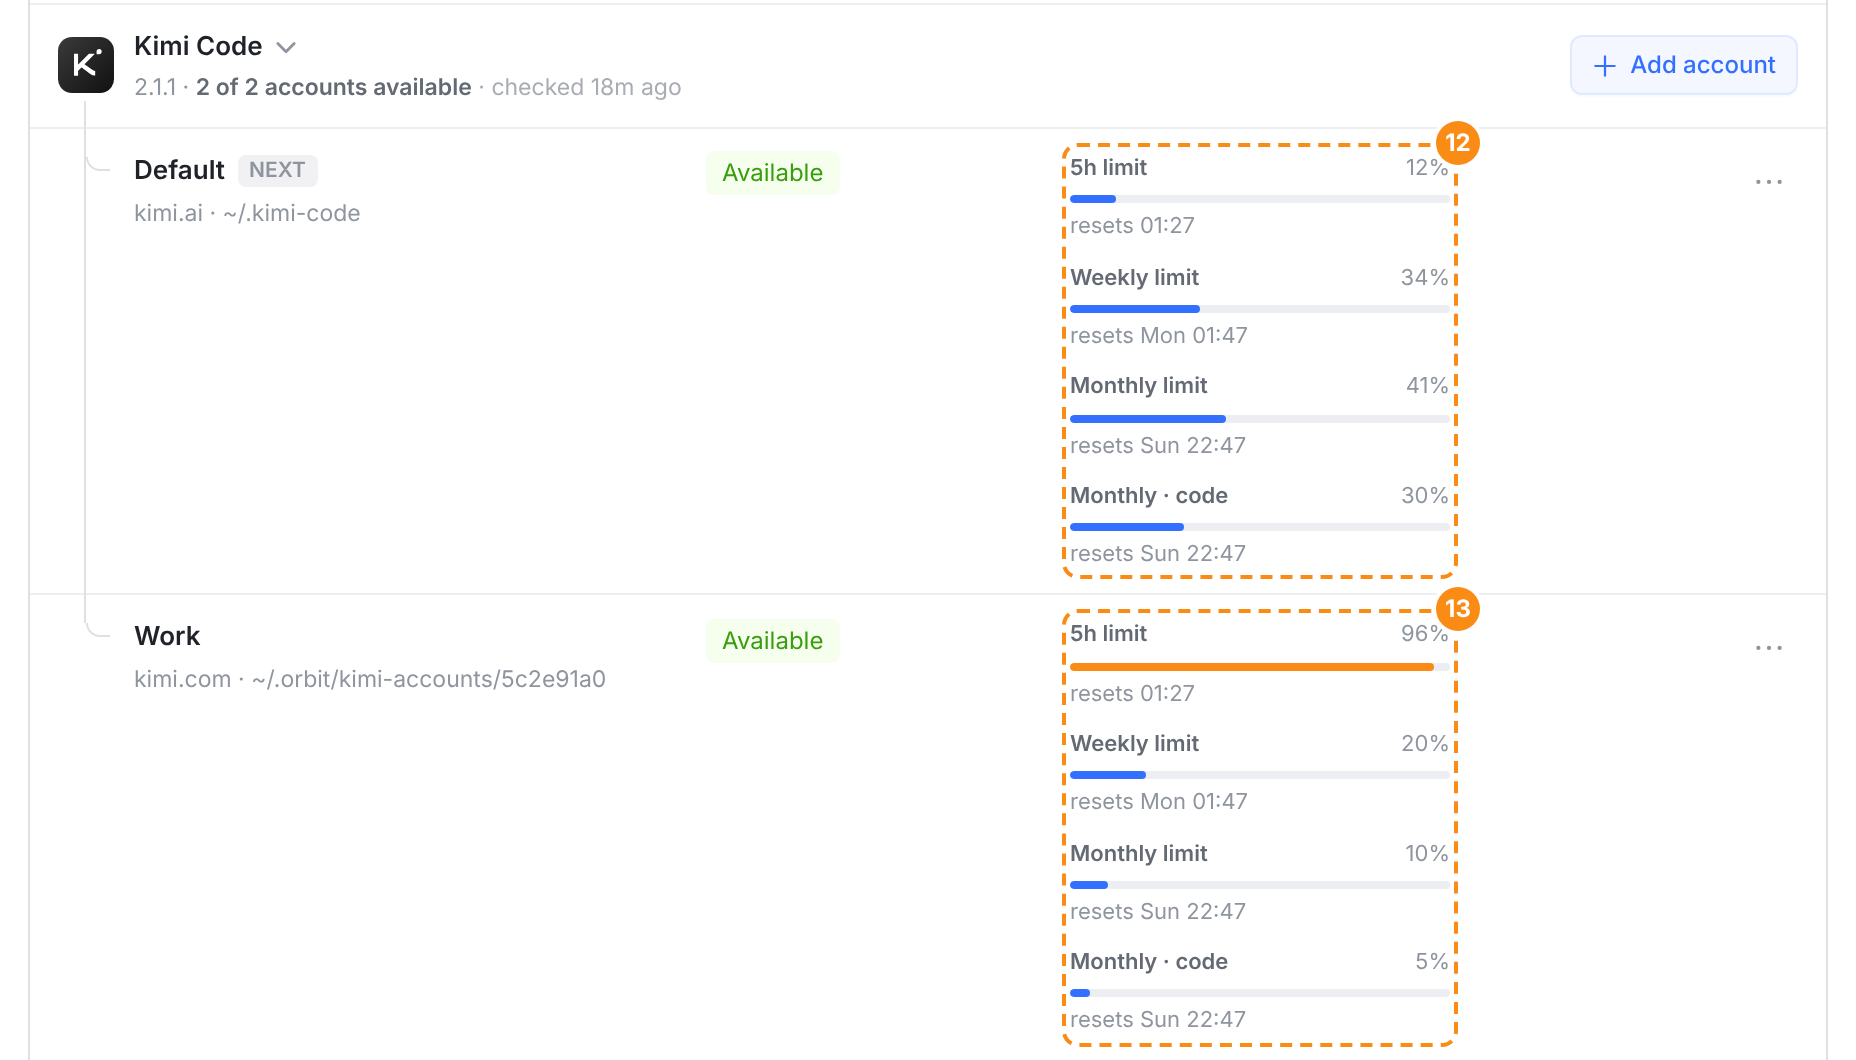
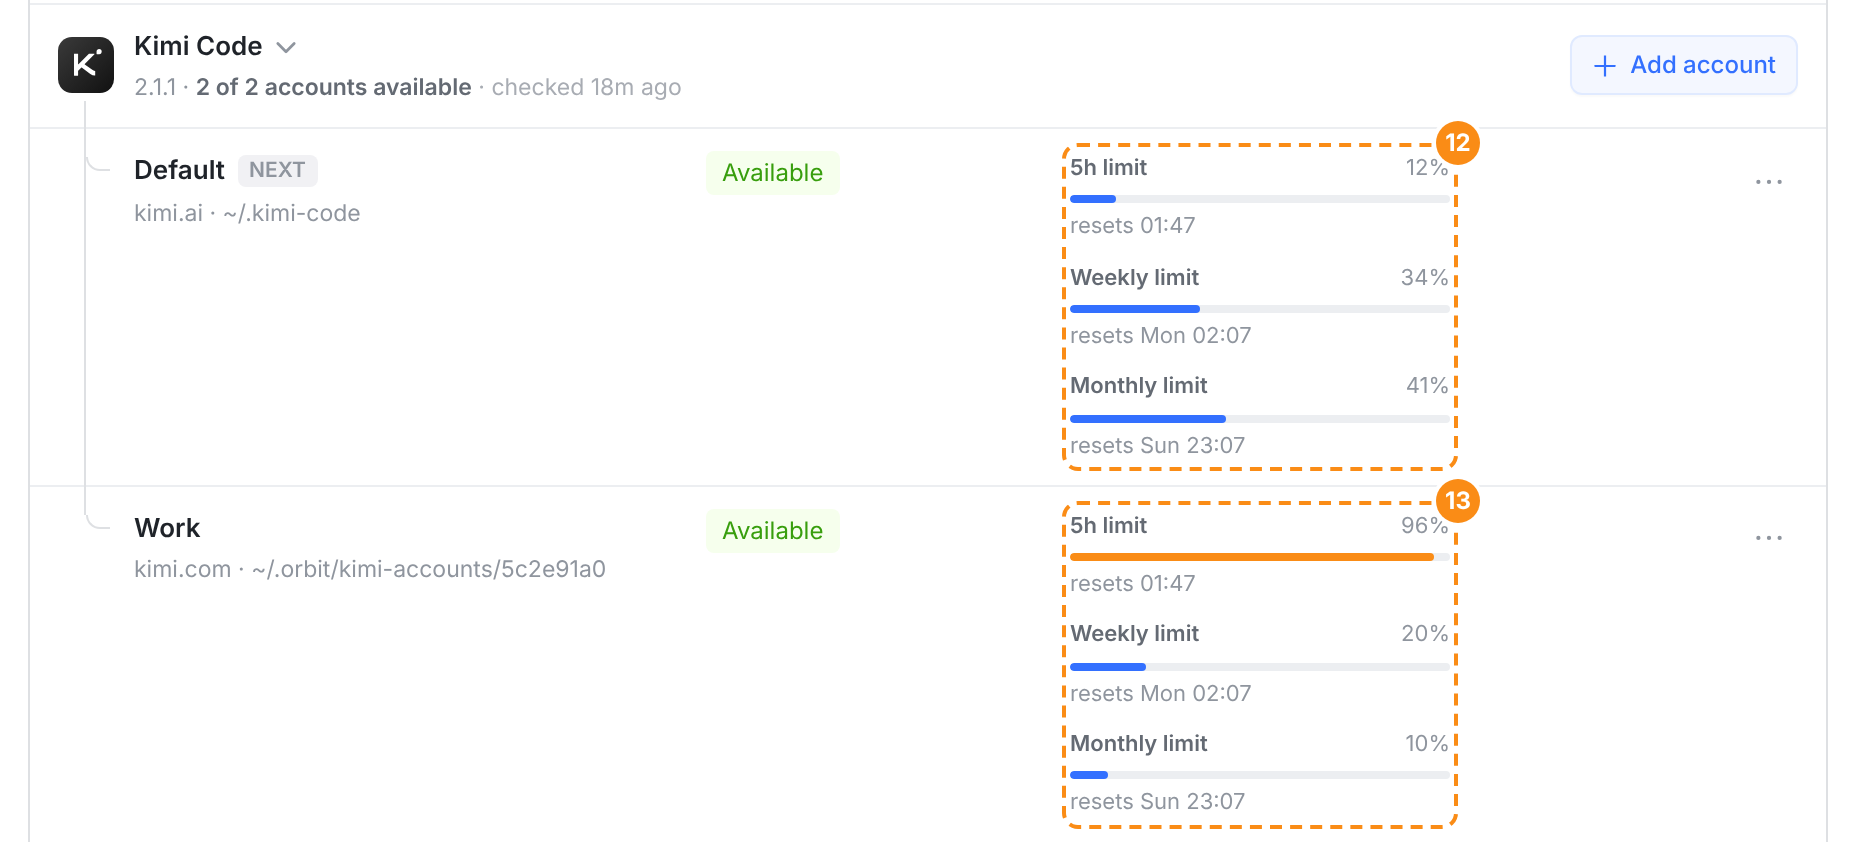
fix(web): Kimi's month is one bar, its total
The owner settled it on 2026-10-08 with the native design, for every client: Kimi Code's quota is three
windows, 5h limit, Weekly limit and Monthly limit, the month drawn once by its total
(usages.limit_month_total). Its coding share (monthCode, usages.limit_month_code) is no longer drawn,
on any surface that reads planUsageRows: account rows, the one-account row, the folded head, the
composer's gauge and the account pickers. Nor is it ever the window those name as the one nearest its
limit. @orbit/shared is unchanged: the share is still read, and the quota decisions there still weigh
it.

Tests: the Kimi cases assert the three windows and that "Monthly · code" appears nowhere, with a
coding share set above its month (which Kimi never reports) so that a surface still weighing it would
show it. Evidence: 01i and 01j captured again, and compare.png with them.

diff --git a/src/web/src/components/RunnerEngines.kimiAccounts.test.tsx b/src/web/src/components/RunnerEngines.kimiAccounts.test.tsx
@@ -22,8 +22,8 @@ import type { Runner } from './TasksSidePanel';
  * the Kimi row where the runner keeps Kimi accounts apart (kimi-account-login/v1), a panel that asks
  * for the site before it signs anything in, a device code that names the site of the account being
  * added, each account's row saying its site before its directory, Re-sign in marking the account's own
- * site Current, and each account's own quota — its 5-hour, weekly and monthly windows — in the same
- * quota column Claude Code's and Codex's accounts use.
+ * site Current, and each account's own quota — its 5-hour and weekly windows and one bar for its
+ * month, the total — in the same quota column Claude Code's and Codex's accounts use.
  *
  * Mounted into a real DOM and pressed through to the mocked `api()`: what a press sends — which name,
  * which account, which site — is what matters, and a static render cannot press anything.
@@ -72,7 +72,8 @@ const runner = (engine: RunnerEngineHealth = kimi(), over: Partial<Runner> = {})
 
 /** Ahead of whenever this runs, so no reading is about a window already over. */
 const inHours = (hours: number) => new Date(Date.now() + hours * 3600_000).toISOString();
-/** One Kimi account's four windows, as used shares (`used_ratio × 100`), from the managed /usages. */
+/** One Kimi account's four windows, as used shares (`used_ratio × 100`), from the managed /usages: the
+ *  page draws three of them, the month by its total, and never the coding share (`monthCode`). */
 const usages = (fiveHour: number, sevenDay: number, month: number, monthCode: number): PlanUsageSnapshot => ({
   provider: 'kimi',
   fetchedAt: inHours(-0.05),
@@ -346,13 +347,15 @@ describe('two Kimi accounts on one runner', () => {
 });
 
 describe('each Kimi account’s own quota', () => {
-  it('shows its 5-hour, weekly and monthly windows in the quota column', () => {
+  it('shows its 5-hour, weekly and monthly windows in the quota column, one bar for the month', () => {
     const page = mount(withQuota(usages(12, 34, 41, 30), usages(97, 20, 10, 5)));
     expect(kimiRow(page).querySelector('.re-meta')?.textContent).toBe('2.1.1 · 2 of 2 accounts available');
     const [defaultRow, workRow] = accountRows(page);
-    expect(windows(defaultRow)).toEqual(['5h limit12%', 'Weekly limit34%', 'Monthly limit41%', 'Monthly · code30%']);
-    expect(windows(workRow)).toEqual(['5h limit97%', 'Weekly limit20%', 'Monthly limit10%', 'Monthly · code5%']);
-    expect(all(defaultRow, '.re-reset')).toHaveLength(4);
+    expect(windows(defaultRow)).toEqual(['5h limit12%', 'Weekly limit34%', 'Monthly limit41%']);
+    expect(windows(workRow)).toEqual(['5h limit97%', 'Weekly limit20%', 'Monthly limit10%']);
+    expect(all(defaultRow, '.re-reset')).toHaveLength(3);
+    // The month is its total: the coding share reported beside it is not drawn.
+    expect(page.textContent).not.toContain('Monthly · code');
     // Work's 5-hour window is nearly spent: its bar says so, and a new session starts on Default.
     expect(all(workRow, '.runner-util.full')).toHaveLength(1);
     expect(all(defaultRow, '.runner-util.full')).toHaveLength(0);
@@ -360,12 +363,15 @@ describe('each Kimi account’s own quota', () => {
     expect([defaultRow, workRow].map(tags)).toEqual([['Available'], ['Available']]);
   });
 
-  it('folded, the head shows the next account’s window nearest its limit', () => {
-    const page = mount(withQuota(usages(12, 34, 41, 30), usages(97, 20, 10, 5)), { folded: true });
+  it('folded, the head shows the next account’s window nearest its limit, of the three it draws', () => {
+    // Default's coding share is set above its month — which Kimi never reports, the share being part of
+    // the month — so that a head still weighing it would name it.
+    const page = mount(withQuota(usages(12, 34, 41, 88), usages(97, 20, 10, 5)), { folded: true });
     const head = kimiRow(page);
     expect(tags(head)).toEqual(['Available']);
     expect(head.querySelector('.re-quota-next')?.textContent).toBe('Next: Default');
     expect(windows(head)).toEqual(['Monthly limit41%']);
+    expect(head.textContent).not.toContain('Monthly · code');
   });
 
   it('counts a spent account out of the head, and says when it comes back', () => {
@@ -374,10 +380,11 @@ describe('each Kimi account’s own quota', () => {
     expect(tags(accountRow(page, 'Work'))[0]).toMatch(/^Spent · resets /);
   });
 
-  it('shows the windows on the one-account row too', () => {
+  it('shows the same three on the one-account row', () => {
     const page = mount({ ...runner(kimi({ accounts: [DEFAULT] })), planUsage: { kimi: usages(12, 34, 41, 30) } });
     const row = kimiRow(page);
     expect(tags(row)).toEqual(['Available']);
-    expect(windows(row)).toEqual(['5h limit12%', 'Weekly limit34%', 'Monthly limit41%', 'Monthly · code30%']);
+    expect(windows(row)).toEqual(['5h limit12%', 'Weekly limit34%', 'Monthly limit41%']);
+    expect(row.textContent).not.toContain('Monthly · code');
   });
 });

diff --git a/src/web/src/lib/planUsage.test.ts b/src/web/src/lib/planUsage.test.ts
@@ -57,7 +57,7 @@ describe('planUsageRows', () => {
     });
   });
 
-  it("names Kimi Code's windows as its own /usage panel does, its monthly ones included", () => {
+  it("names Kimi Code's windows as its own /usage panel does: one monthly bar, the total", () => {
     const rows = planUsageRows({
       provider: 'kimi',
       fiveHour: { utilization: 12 },
@@ -69,12 +69,28 @@ describe('planUsageRows', () => {
       { key: 'fiveHour', label: '5h limit', percent: 12, nearLimit: false },
       { key: 'sevenDay', label: 'Weekly limit', percent: 34, nearLimit: false },
       { key: 'month', label: 'Monthly limit', percent: 91, nearLimit: true },
-      { key: 'monthCode', label: 'Monthly · code', percent: 30, nearLimit: false },
     ]);
     // What stops the login is its month, though its 5-hour window has room.
     expect(bindingPlanUsageRow(rows)?.key).toBe('month');
     // A window the runner did not read is not drawn.
     expect(planUsageRows({ provider: 'kimi', sevenDay: { utilization: 7 } }).map((row) => row.label)).toEqual(['Weekly limit']);
+  });
+
+  it("never draws Kimi's coding share of the month, nor names it as what stops the login", () => {
+    // A share above its month cannot come from Kimi — it is part of the month — and stands here so
+    // that a reader still weighing it would name it.
+    const rows = currentPlanUsageRows({
+      provider: 'kimi',
+      fiveHour: { utilization: 12 },
+      sevenDay: { utilization: 34 },
+      month: { utilization: 41 },
+      monthCode: { utilization: 97 },
+    });
+    expect(rows.map((row) => row.label)).toEqual(['5h limit', 'Weekly limit', 'Monthly limit']);
+    expect(rows.map((row) => row.label)).not.toContain('Monthly · code');
+    expect(bindingPlanUsageRow(rows)).toMatchObject({ key: 'month', percent: 41 });
+    // A coding share alone is nothing to draw.
+    expect(planUsageRows({ provider: 'kimi', monthCode: { utilization: 30 } })).toEqual([]);
   });
 
   it('selects Kimi quota without leaking a flat Kimi snapshot into Claude', () => {

diff --git a/src/web/src/lib/sessionProviderChoices.test.ts b/src/web/src/lib/sessionProviderChoices.test.ts
@@ -451,14 +451,16 @@ describe('the runner’s Kimi Code accounts, under the Kimi choice', () => {
       accounts: accounts.map((account) => ({ ...account, home: home(account.id) })),
     },
   ];
-  // Kimi's windows in the heartbeat's planUsage.kimi: Default's own, Work's under `accounts`.
+  // Kimi's windows in the heartbeat's planUsage.kimi: Default's own, Work's under `accounts`. Default's
+  // coding share is above its month, which Kimi never reports (the share is part of the month), so that a
+  // row still weighing it would name it.
   const usage = {
     kimi: {
       provider: 'kimi',
       fiveHour: { utilization: 12 },
       sevenDay: { utilization: 34 },
       month: { utilization: 41 },
-      monthCode: { utilization: 30 },
+      monthCode: { utilization: 88 },
       accounts: {
         '5c2e91a0': { provider: 'kimi', fiveHour: { utilization: 97 }, sevenDay: { utilization: 20 }, month: { utilization: 10 } },
       },
@@ -466,7 +468,7 @@ describe('the runner’s Kimi Code accounts, under the Kimi choice', () => {
   } as never;
   const accountsOf = (choices: ReturnType<typeof providerChoices>) => choices.find((choice) => choice.slug === 'kimi')?.accounts;
 
-  it('lists each account by the window that stops it, its monthly ones included', () => {
+  it('lists each account by the window that stops it, the month by its total', () => {
     const choices = providerChoices(
       [],
       catalog,
@@ -476,7 +478,8 @@ describe('the runner’s Kimi Code accounts, under the Kimi choice', () => {
       usage,
     );
     expect(accountsOf(choices)).toEqual([
-      // Its month is the fullest of its windows, though its 5-hour one has room.
+      // Its month is the fullest of the windows drawn, though its 5-hour one has room; its coding share
+      // is never one of them.
       { id: 'default', label: 'Default', quota: 'Monthly 41%' },
       { id: '5c2e91a0', label: 'Work', quota: '5h 97%', nearLimit: true },
       { id: 'c0ffee42', label: 'Account c0ffee42', unavailable: 'Not signed in' },

diff --git a/src/web/src/components/WorkspaceView.codexAccount.test.tsx b/src/web/src/components/WorkspaceView.codexAccount.test.tsx
@@ -754,7 +754,9 @@ describe('the runner account a session runs on', { timeout: 60_000 }, () => {
   });
 
   /** Two Kimi Code accounts — Default on kimi.ai, Work on kimi.com — their quota in the heartbeat's
-   *  planUsage.kimi: Default's month is 41% used, Work's 5-hour window 97%. */
+   *  planUsage.kimi: Default's month is 41% used, Work's 5-hour window 97%. Default's coding share is
+   *  above its month, which Kimi never reports (the share is part of the month), so that a gauge or a
+   *  row still weighing it would name it. */
   const withKimiAccounts = (capabilities: string[] = []) =>
     ({
       ...RUNNER,
@@ -779,6 +781,7 @@ describe('the runner account a session runs on', { timeout: 60_000 }, () => {
           provider: 'kimi',
           fiveHour: { utilization: 12, resetsAt: RESETS },
           month: { utilization: 41, resetsAt: RESETS },
+          monthCode: { utilization: 88, resetsAt: RESETS },
           accounts: { [WORK]: { provider: 'kimi', fiveHour: { utilization: 97, resetsAt: RESETS } } },
         },
       },
@@ -793,6 +796,11 @@ describe('the runner account a session runs on', { timeout: 60_000 }, () => {
     // Work's 5-hour window is nearly spent, so Automatic would start on Default, whose month the gauge shows.
     expect(usage()?.getAttribute('aria-label')).toBe('Plan usage 41%');
     expect(await gaugeAccount()).toEqual({ name: 'Default', note: 'Automatic — the account whose quota resets soonest' });
+    // The month is its total: the coding share beside it is neither listed nor what the gauge reads.
+    expect([...document.querySelectorAll('.cu-pop .cu-row .cu-head')].map((head) => head.textContent)).toEqual([
+      '5h limit12%',
+      'Monthly limit41%',
+    ]);
     expect((await providerMenuRows())!.map(rowText)).toEqual([
       'Kimi',
       'AutomaticSwitches to soonest reset ✓',

diff --git a/docs/evidence/kimi-accounts-web/compare.html b/docs/evidence/kimi-accounts-web/compare.html
@@ -92,9 +92,9 @@
     <div class="m-stage-l zh">⑥ 加的一帧：Kimi 额度（5 小时 / 7 天 / 月度），和 Claude / Codex 同一个额度列</div>
     <div class="cols">
       <div><div class="lbl zh"><span class="m-k new">真实</span>01i 展开</div><div class="shot"><img src="01i-quota-open.png" alt=""></div>
-        <p class="m-cap zh"><b>⑫</b> Default 的四个窗口：5h limit、Weekly limit、Monthly limit、Monthly · code（Kimi 自己 /usage 面板的叫法，code 是月度里编程的那一份）。<b>⑬</b> Work 的 5 小时窗口快用完，进度条变色，NEXT 落在 Default。</p></div>
+        <p class="m-cap zh"><b>⑫</b> 每个账号三条：5h limit、Weekly limit、Monthly limit（Kimi 自己 /usage 面板的叫法）。月度只画一条，即总额（<code>limit_month_total</code>）；月度里编程的那一份（<code>monthCode</code>）不画——owner 2026-10-08 定，三端一致。<b>⑬</b> Work 的 5 小时窗口快用完，进度条变色，NEXT 落在 Default。</p></div>
       <div><div class="lbl zh"><span class="m-k new">真实</span>01j 收起</div><div class="shot"><img src="01j-quota-folded.png" alt=""></div>
-        <p class="m-cap zh"><b>⑭</b> 收起时头上写 Next: Default 和它最接近上限的窗口（这里是月度 41%），规则同 Claude Code 的分组。</p></div>
+        <p class="m-cap zh"><b>⑭</b> 收起时头上写 Next: Default 和它最接近上限的窗口（这里是月度 41%），只在上面这三条里挑，规则同 Claude Code 的分组。</p></div>
     </div>
   </div>
 </section>

diff --git a/src/web/src/lib/planUsage.ts b/src/web/src/lib/planUsage.ts
@@ -139,7 +139,7 @@ export function planUsageSnapshots(usage: PlanUsage): PlanUsageSectionInfo[] {
   ];
 }
 
-type NamedWindowKey = 'fiveHour' | 'sevenDay' | 'sevenDayOpus' | 'sevenDaySonnet' | 'month' | 'monthCode';
+type NamedWindowKey = 'fiveHour' | 'sevenDay' | 'sevenDayOpus' | 'sevenDaySonnet' | 'month';
 
 const CLAUDE_ROWS: { key: NamedWindowKey; label: string }[] = [
   { key: 'fiveHour', label: '5-hour limit' },
@@ -148,13 +148,13 @@ const CLAUDE_ROWS: { key: NamedWindowKey; label: string }[] = [
   { key: 'sevenDaySonnet', label: 'Weekly · Sonnet' },
 ];
 
-/** Kimi Code's windows (PlanUsageSnapshot), in the words its own /usage panel uses for them — and its
- *  coding share of the month, which that panel puts under the monthly limit as "code N%". */
+/** Kimi Code's windows (PlanUsageSnapshot), in the words its own /usage panel uses for them. The month
+ *  is one bar, its total: the coding share of it (`monthCode`) is not drawn, on every client — the
+ *  owner's call, 2026-10-08 — though the quota decisions in @orbit/shared still read it. */
 const KIMI_ROWS: { key: NamedWindowKey; label: string }[] = [
   { key: 'fiveHour', label: '5h limit' },
   { key: 'sevenDay', label: 'Weekly limit' },
   { key: 'month', label: 'Monthly limit' },
-  { key: 'monthCode', label: 'Monthly · code' },
 ];
 
 function clampPercent(value: number): number {

diff --git a/src/web/src/pages/RunnerDetailPage.kimiAccount.test.tsx b/src/web/src/pages/RunnerDetailPage.kimiAccount.test.tsx
@@ -40,13 +40,16 @@ const kimi = (accounts: RunnerEngineAccount[]): RunnerEngineHealth => ({
   accounts,
 });
 
-/** Default's month is its fullest window; Work's 5-hour one is nearly spent. */
+/** Default's month is its fullest window; Work's 5-hour one is nearly spent. Default's coding share is
+ *  above its month, which Kimi never reports (the share is part of the month), so that a picker still
+ *  weighing it would name it. */
 const USAGE: PlanUsage = {
   kimi: {
     provider: 'kimi',
     fiveHour: { utilization: 12 },
     sevenDay: { utilization: 34 },
     month: { utilization: 41 },
+    monthCode: { utilization: 88 },
     accounts: { [WORK.id]: { provider: 'kimi', fiveHour: { utilization: 97 }, month: { utilization: 10 } } },
   },
 };
@@ -197,6 +200,8 @@ describe('which Kimi account a workspace runs on', () => {
       ['Default (~/.kimi-code)', 'Monthly limit 41% · signed in'],
       ['Work', '5h limit 97% · signed in'],
     ]);
+    // Neither the coding share's name nor its 88% is anywhere in the list.
+    expect(document.body.querySelector('[role="listbox"]')?.textContent).not.toMatch(/Monthly · code|88%/);
     await press(offered[2].el);
     await click(byText('button', 'Save'));
     expect(patches).toHaveLength(1);
